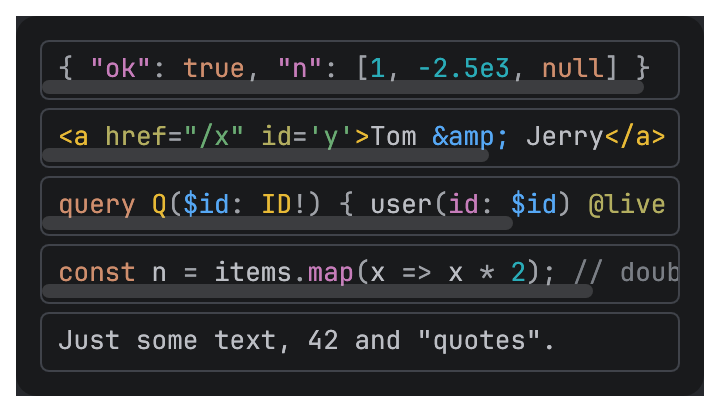
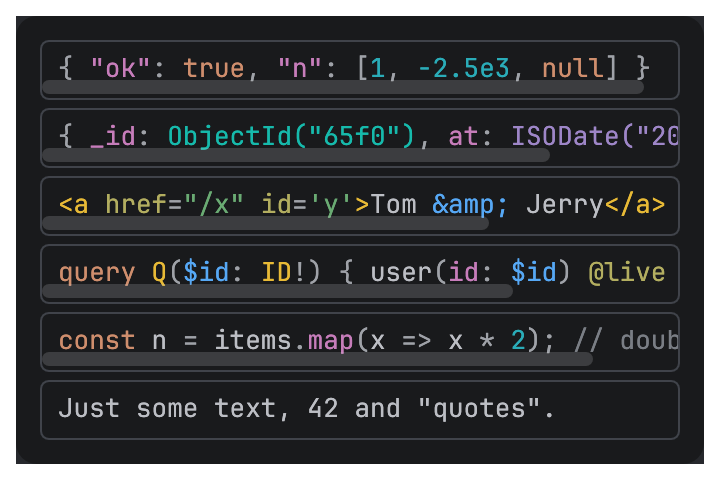
feat(code): ExtendedJson highlighter and typed value tokens
TokenKind::Value(ValueKind) lets a highlighter color a token as the typed data value it is,
in the colors tables and trees use for that kind. ExtendedJson reads MongoDB's shell form of
documents: unquoted keys, single-quoted strings, and ObjectId("…"), ISODate("…"),
NumberLong(…), BinData(…) and the other constructors as one id, date, number or binary
value. ValueKind::editor_color gives the color from EditorColors directly.

Claude-Session: https://claude.ai/code/session_01CFSJRhkJs2RrB2frFQVn3u

diff --git a/crates/archipel-kit/src/components/code/highlight.rs b/crates/archipel-kit/src/components/code/highlight.rs
@@ -1,5 +1,6 @@
 //! Token highlighting: the [`Highlighter`] trait and the built-in tokenizers.
 
+use crate::parts::ValueKind;
 use crate::theme::EditorColors;
 use crate::tokens::opacity;
 use egui::Color32;
@@ -39,6 +40,9 @@ pub enum TokenKind {
     Unresolved,
     /// A `{{variable}}` holding a secret, styled apart so it is not mistaken for plain data.
     Secret,
+    /// A typed data value (`ObjectId("…")`, `ISODate("…")`), colored as the same
+    /// [`ValueKind`] in tables and trees.
+    Value(ValueKind),
 }
 
 impl TokenKind {
@@ -73,6 +77,7 @@ impl TokenKind {
             TokenKind::Error | TokenKind::Unresolved => colors.invalid,
             TokenKind::Resolved => colors.variable,
             TokenKind::Secret => colors.string,
+            TokenKind::Value(kind) => kind.editor_color(colors),
         }
     }
 }
@@ -409,6 +414,189 @@ const JS_KEYWORDS: &[&str] = &[
     "with",
     "yield",
 ];
+
+/// MongoDB Extended JSON as the shell prints and accepts it: JSON with unquoted keys,
+/// single-quoted strings and constructors. `ObjectId("…")`, `ISODate("…")`,
+/// `NumberLong(…)`, `BinData(…)` and the like are colored as their [`ValueKind`] (an id, a
+/// date, a number, binary), so a document reads the same in an editor and in a table; keys
+/// are properties, `true`/`false` booleans, `null` null. `//` starts a comment.
+///
+/// ```
+/// use archipel_kit::components::code::{ExtendedJson, Highlighter, Span, TokenKind};
+/// use archipel_kit::parts::ValueKind;
+///
+/// let mut spans = Vec::new();
+/// ExtendedJson.highlight_line(r#"{ _id: ObjectId("65f0") }"#, &mut 0, &mut spans);
+/// assert!(spans.contains(&Span { start: 2, end: 5, kind: TokenKind::Property }));
+/// assert!(spans.contains(&Span { start: 7, end: 23, kind: TokenKind::Value(ValueKind::Id) }));
+/// ```
+#[derive(Debug, Clone, Copy, Default)]
+pub struct ExtendedJson;
+
+/// The value a shell constructor makes.
+fn constructor_kind(name: &str) -> Option<ValueKind> {
+    Some(match name {
+        "ObjectId" | "UUID" | "DBRef" => ValueKind::Id,
+        "ISODate" | "Date" | "Timestamp" => ValueKind::Date,
+        "NumberLong" | "NumberInt" | "NumberDecimal" | "Decimal128" | "Long" | "Int32"
+        | "Double" => ValueKind::Number,
+        "BinData" | "HexData" | "MD5" => ValueKind::Binary,
+        "MinKey" | "MaxKey" | "RegExp" | "BSONRegExp" => ValueKind::Boolean,
+        _ => return None,
+    })
+}
+
+impl ExtendedJson {
+    /// The end of the string starting at `start` (a quote), past the closing quote.
+    fn string_end(bytes: &[u8], start: usize) -> usize {
+        let quote = bytes[start];
+        let mut i = start + 1;
+        while i < bytes.len() {
+            match bytes[i] {
+                b'\\' => i += 2,
+                b if b == quote => return i + 1,
+                _ => i += 1,
+            }
+        }
+        bytes.len()
+    }
+
+    /// The end of the call whose `(` is at `open`, past the matching `)`; `None` when the
+    /// line ends first.
+    fn call_end(bytes: &[u8], open: usize) -> Option<usize> {
+        let mut depth = 0;
+        let mut i = open;
+        while i < bytes.len() {
+            match bytes[i] {
+                b'"' | b'\'' => {
+                    i = Self::string_end(bytes, i);
+                    continue;
+                }
+                b'(' => depth += 1,
+                b')' => {
+                    depth -= 1;
+                    if depth == 0 {
+                        return Some(i + 1);
+                    }
+                }
+                _ => {}
+            }
+            i += 1;
+        }
+        None
+    }
+
+    /// Whether a `:` follows `at`, after spaces: the token before it is a key.
+    fn before_colon(bytes: &[u8], at: usize) -> bool {
+        bytes[at..]
+            .iter()
+            .find(|b| !b.is_ascii_whitespace())
+            .is_some_and(|b| *b == b':')
+    }
+}
+
+impl Highlighter for ExtendedJson {
+    fn highlight_line(&self, line: &str, _state: &mut u32, out: &mut Vec<Span>) {
+        let bytes = line.as_bytes();
+        let mut i = 0;
+        let mut push = |start: usize, end: usize, kind: TokenKind| {
+            out.push(Span { start, end, kind });
+        };
+        while i < bytes.len() {
+            let b = bytes[i];
+            let start = i;
+            match b {
+                b if b.is_ascii_whitespace() => i += 1,
+                b'/' if bytes.get(i + 1) == Some(&b'/') => {
+                    push(start, bytes.len(), TokenKind::Comment);
+                    i = bytes.len();
+                }
+                b'"' | b'\'' => {
+                    i = Self::string_end(bytes, i);
+                    let kind = if Self::before_colon(bytes, i) {
+                        TokenKind::Property
+                    } else {
+                        TokenKind::String
+                    };
+                    push(start, i, kind);
+                }
+                b'-' | b'0'..=b'9'
+                    if b != b'-' || bytes.get(i + 1).is_some_and(u8::is_ascii_digit) =>
+                {
+                    i += 1;
+                    while i < bytes.len()
+                        && (bytes[i].is_ascii_alphanumeric()
+                            || bytes[i] == b'.'
+                            || (matches!(bytes[i], b'+' | b'-')
+                                && matches!(bytes[i - 1], b'e' | b'E')))
+                    {
+                        i += 1;
+                    }
+                    push(start, i, TokenKind::Number);
+                }
+                b if b.is_ascii_alphabetic() || b == b'_' || b == b'$' => {
+                    let word_end = |from: usize| {
+                        let mut j = from;
+                        while j < bytes.len()
+                            && (bytes[j].is_ascii_alphanumeric() || matches!(bytes[j], b'_' | b'$'))
+                        {
+                            j += 1;
+                        }
+                        j
+                    };
+                    i = word_end(i);
+                    let mut word = &line[start..i];
+                    // `new Date(…)`: the constructor after `new`.
+                    let mut name_end = i;
+                    if word == "new" {
+                        let next = bytes[i..]
+                            .iter()
+                            .position(|b| !b.is_ascii_whitespace())
+                            .map(|p| i + p);
+                        if let Some(next) = next
+                            && constructor_kind(&line[next..word_end(next)]).is_some()
+                        {
+                            name_end = word_end(next);
+                            word = &line[next..name_end];
+                        }
+                    }
+                    let open = bytes[name_end..]
+                        .iter()
+                        .position(|b| !b.is_ascii_whitespace())
+                        .map(|p| name_end + p)
+                        .filter(|&p| bytes[p] == b'(');
+                    if let (Some(kind), Some(open)) = (constructor_kind(word), open)
+                        && let Some(end) = Self::call_end(bytes, open)
+                    {
+                        push(start, end, TokenKind::Value(kind));
+                        i = end;
+                    } else if Self::before_colon(bytes, i) {
+                        push(start, i, TokenKind::Property);
+                    } else {
+                        match word {
+                            "true" | "false" => {
+                                push(start, i, TokenKind::Value(ValueKind::Boolean))
+                            }
+                            "null" | "undefined" => {
+                                push(start, i, TokenKind::Value(ValueKind::Null))
+                            }
+                            _ => {}
+                        }
+                    }
+                }
+                b'{' | b'}' | b'[' | b']' | b',' | b':' | b'(' | b')' => {
+                    i += 1;
+                    push(start, i, TokenKind::Punctuation);
+                }
+                _ => i += line[i..].chars().next().map_or(1, char::len_utf8),
+            }
+        }
+    }
+
+    fn stateless(&self) -> bool {
+        true
+    }
+}
 
 const JS_BLOCK_COMMENT: u32 = 1;
 const JS_TEMPLATE: u32 = 2;

diff --git a/crates/archipel-kit/tests/code.rs b/crates/archipel-kit/tests/code.rs
@@ -3,8 +3,11 @@
 
 mod common;
 
-use archipel_kit::components::code::{GraphQl, JavaScript, Json, PlainText, Xml};
+use archipel_kit::components::code::{
+    ExtendedJson, GraphQl, Highlighter, JavaScript, Json, PlainText, Span, TokenKind, Xml,
+};
 use archipel_kit::components::{CodeEditor, CodeView};
+use archipel_kit::parts::ValueKind;
 use archipel_kit::testing::{self, NodeExt, NodeT, Queryable, Role};
 use archipel_kit::{Theme, egui};
 use egui::{Event, Key, Modifiers, OutputCommand};
@@ -89,8 +92,13 @@ fn view_find_snapshot() {
 #[test]
 fn highlighting_snapshot() {
     testing::snapshot_themes("code_highlighting", common::IMG, |ui| {
-        let samples: [(&str, &dyn archipel_kit::components::code::Highlighter, &str); 5] = [
+        let samples: [(&str, &dyn Highlighter, &str); 6] = [
             ("JSON", &Json, "{ \"ok\": true, \"n\": [1, -2.5e3, null] }"),
+            (
+                "Extended JSON",
+                &ExtendedJson,
+                "{ _id: ObjectId(\"65f0\"), at: ISODate(\"2026\") }",
+            ),
             (
                 "XML",
                 &Xml,
@@ -121,6 +129,72 @@ fn highlighting_snapshot() {
                 .show(ui);
         }
     });
+}
+
+fn kinds(highlighter: &dyn Highlighter, line: &str) -> Vec<(String, TokenKind)> {
+    let mut spans: Vec<Span> = Vec::new();
+    highlighter.highlight_line(line, &mut 0, &mut spans);
+    spans
+        .into_iter()
+        .filter(|s| s.kind != TokenKind::Punctuation)
+        .map(|s| (line[s.start..s.end].to_owned(), s.kind))
+        .collect()
+}
+
+#[test]
+fn extended_json_colors_constructors_as_their_values() {
+    let line = r#"{ _id: ObjectId("65f0"), "at": new Date('2026-10-12'), n: NumberLong("7"), x: -1.5e3, b: BinData(0, "AA=="), s: 'it\'s', ok: false, z: null } // last"#;
+    assert_eq!(
+        kinds(&ExtendedJson, line),
+        [
+            ("_id", TokenKind::Property),
+            ("ObjectId(\"65f0\")", TokenKind::Value(ValueKind::Id)),
+            ("\"at\"", TokenKind::Property),
+            ("new Date('2026-10-12')", TokenKind::Value(ValueKind::Date)),
+            ("n", TokenKind::Property),
+            ("NumberLong(\"7\")", TokenKind::Value(ValueKind::Number)),
+            ("x", TokenKind::Property),
+            ("-1.5e3", TokenKind::Number),
+            ("b", TokenKind::Property),
+            ("BinData(0, \"AA==\")", TokenKind::Value(ValueKind::Binary)),
+            ("s", TokenKind::Property),
+            ("'it\\'s'", TokenKind::String),
+            ("ok", TokenKind::Property),
+            ("false", TokenKind::Value(ValueKind::Boolean)),
+            ("z", TokenKind::Property),
+            ("null", TokenKind::Value(ValueKind::Null)),
+            ("// last", TokenKind::Comment),
+        ]
+        .map(|(text, kind)| (text.to_owned(), kind))
+    );
+}
+
+#[test]
+fn extended_json_survives_broken_input() {
+    for line in [
+        "ObjectId(\"65f",
+        "{ a: 'open",
+        "new",
+        "new Foo(1)",
+        "é: ünïcode",
+        "-",
+        "{{{",
+    ] {
+        let mut spans = Vec::new();
+        ExtendedJson.highlight_line(line, &mut 0, &mut spans);
+        for span in &spans {
+            assert!(
+                span.start < span.end && span.end <= line.len(),
+                "{line}: {span:?}"
+            );
+            assert!(line.is_char_boundary(span.start) && line.is_char_boundary(span.end));
+        }
+    }
+    assert_eq!(
+        kinds(&ExtendedJson, "ObjectId(\"65f"),
+        [("\"65f".to_owned(), TokenKind::String)],
+        "an unclosed call is no value; its argument is still a string"
+    );
 }
 
 #[test]

diff --git a/crates/archipel-kit/src/parts/tone.rs b/crates/archipel-kit/src/parts/tone.rs
@@ -173,7 +173,11 @@ impl ValueKind {
 
     /// The color of this kind in `theme`.
     pub fn color(self, theme: &Theme) -> Color32 {
-        let editor = &theme.editor;
+        self.editor_color(&theme.editor)
+    }
+
+    /// The color of this kind among the editor colors `editor`.
+    pub fn editor_color(self, editor: &crate::theme::EditorColors) -> Color32 {
         match self {
             ValueKind::String => editor.string,
             ValueKind::Number => editor.number,

diff --git a/crates/archipel-kit/src/components/code/mod.rs b/crates/archipel-kit/src/components/code/mod.rs
@@ -9,7 +9,9 @@ mod text;
 mod view;
 
 pub use editor::CodeEditor;
-pub use highlight::{GraphQl, Highlighter, JavaScript, Json, PlainText, Span, TokenKind, Xml};
+pub use highlight::{
+    ExtendedJson, GraphQl, Highlighter, JavaScript, Json, PlainText, Span, TokenKind, Xml,
+};
 pub(crate) use highlight::{styled_job, token_format};
 pub use template::{TemplateAt, TemplateHighlighter, TemplateToken, template_at};
 pub use view::{CodeView, CodeViewResponse};

diff --git a/docs/components/code.md b/docs/components/code.md
@@ -133,14 +133,17 @@ behind a "too large to edit" notice.
 
 <picture>
   <source media="(prefers-color-scheme: dark)" srcset="img/code_highlighting.dark.png">
-  <img alt="The built-in highlighters: JSON, XML, GraphQL, JavaScript and plain text" src="img/code_highlighting.light.png" width="360">
+  <img alt="The built-in highlighters: JSON, Extended JSON with an ObjectId and an ISODate, XML, GraphQL, JavaScript and plain text" src="img/code_highlighting.light.png" width="360">
 </picture>
 
 A `Highlighter` maps a line to styled `Span`s by `TokenKind` (keyword, string, number, comment,
-punctuation, property, tag, attribute, variable, error). Colors come from the theme's
-`EditorColors` (`keyword`, `string`, … in dark and light), never from the
-highlighter. Built in: `Json`, `Xml` (also HTML), `GraphQl`, `JavaScript` and `PlainText`, all
-small hand-written tokenizers without dependencies. Plug in your own, for example the IDE's
+punctuation, property, tag, attribute, variable, error, and `Value(ValueKind)` for typed data
+values). Colors come from the theme's `EditorColors` (`keyword`, `string`, … in dark and
+light), never from the highlighter. Built in: `Json`, `ExtendedJson` (MongoDB's shell form:
+unquoted keys, `ObjectId("…")`, `ISODate("…")`, `NumberLong(…)` colored as the id, date or
+number they make, the same `ValueKind` colors tables and trees use), `Xml` (also HTML),
+`GraphQl`, `JavaScript` and `PlainText`, all small hand-written tokenizers without
+dependencies. Plug in your own, for example the IDE's
 tree-sitter:
 
 ```rust
